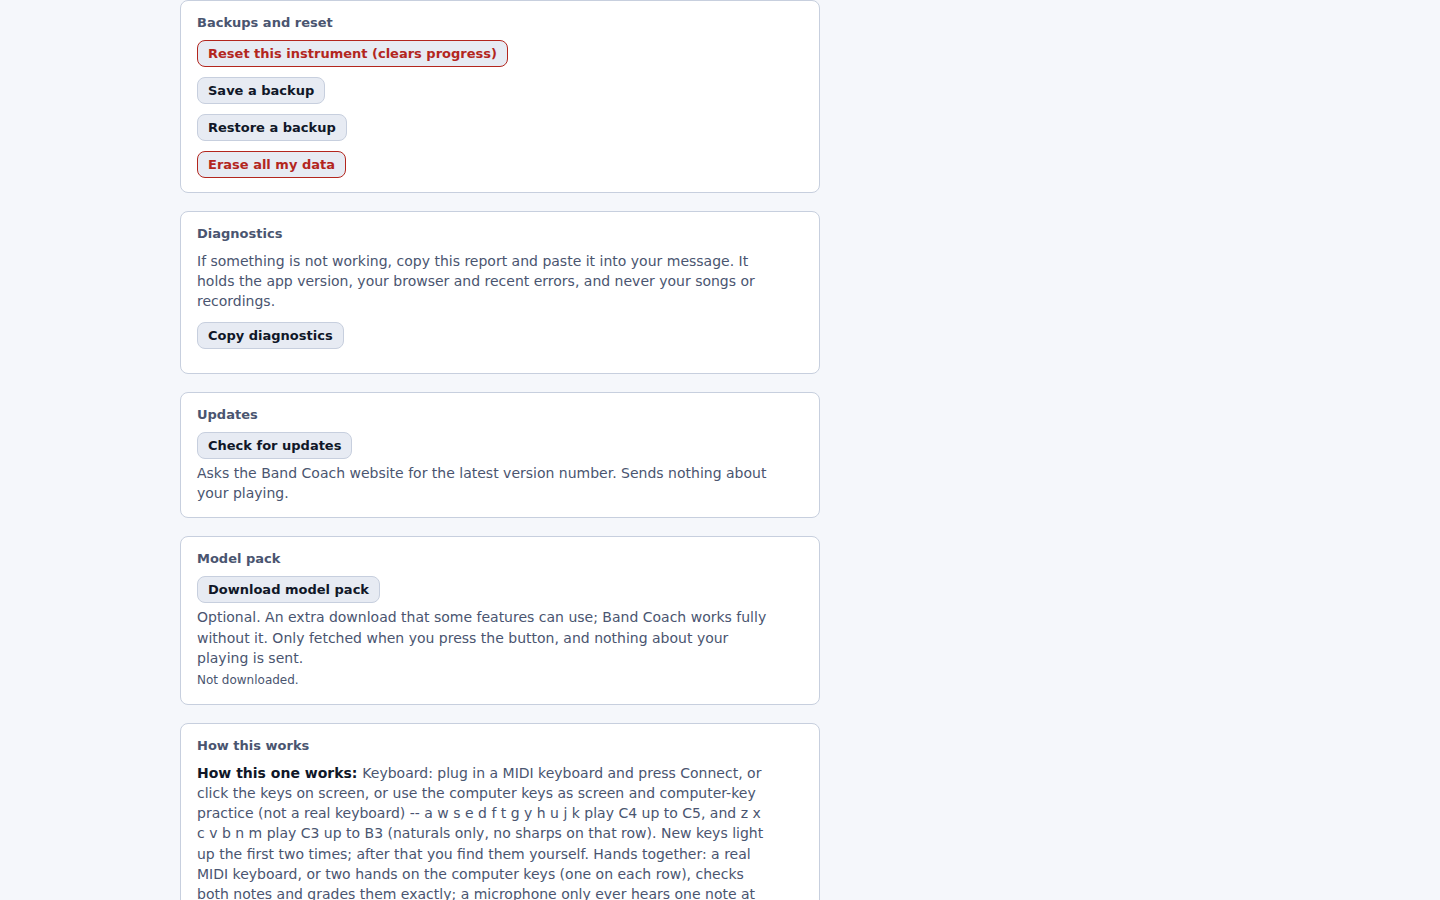
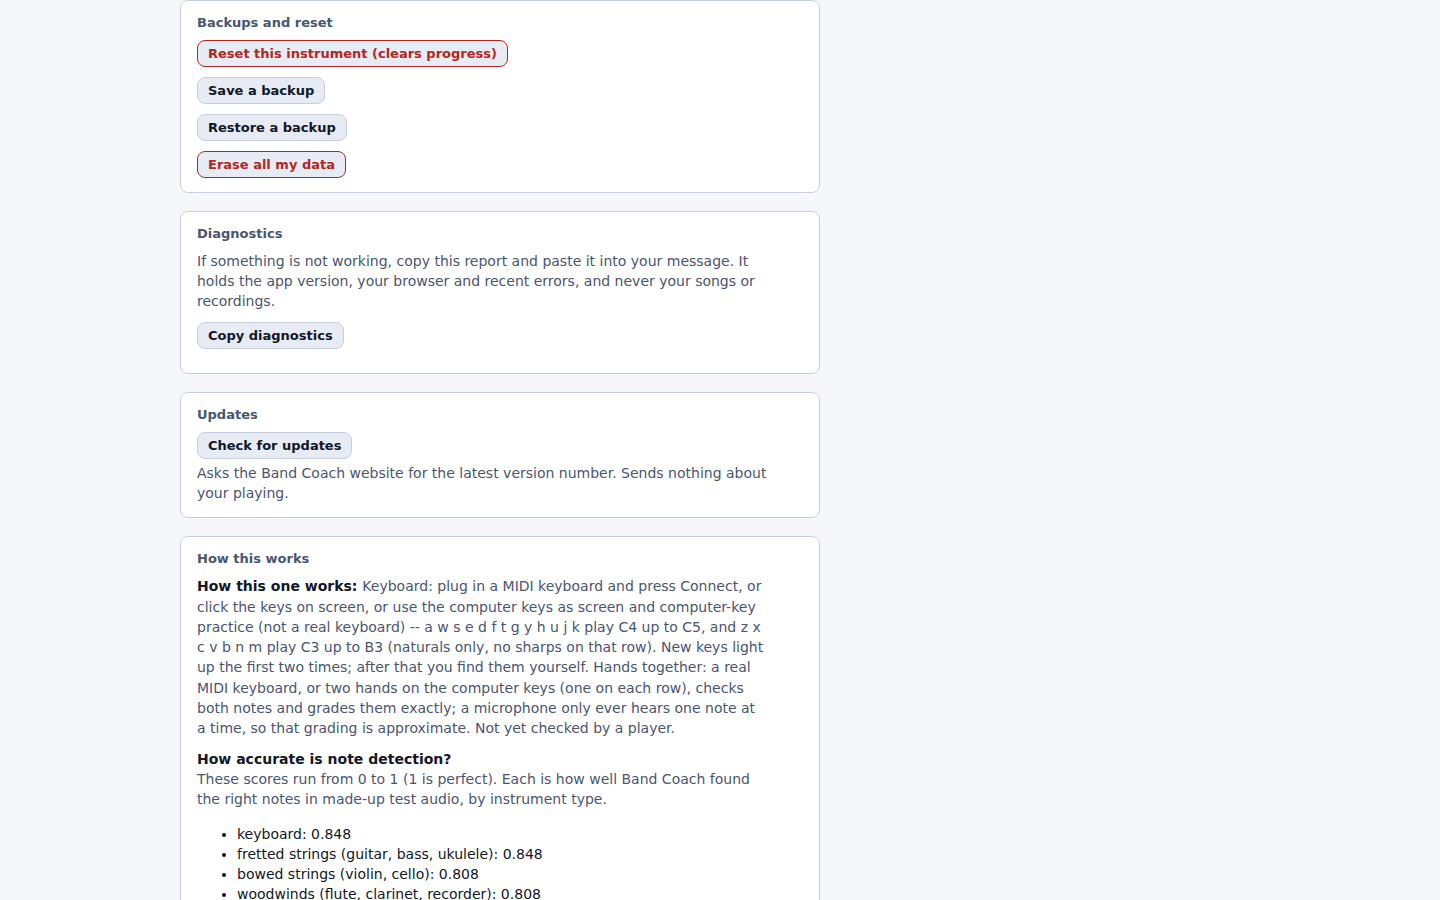
fix(band-coach): v1.12.2 screenshots, beat cue shot, drop model pack (#76)
Recapture every Band Coach image from the v1.12.2 tag and add a shot of the
beat cue. The capture script now starts the audio clock and answers the mic
prompt, which a scripted click cannot do.

v1.12.2 removed the model pack (band-coach#664), so the page and the privacy
section now describe one network request instead of two.

Changed region(s): [[0.125, 0.5911, 0.5312, 1.0]]

diff --git a/content/band-coach.md b/content/band-coach.md
@@ -16,17 +16,21 @@ Pick an instrument and press Start. Band Coach gives you notes or short phrases 
 
 Songs are practiced the same way. Open a tune and it is split into graded steps on the instrument you are playing, in Learn, Rehearse or Check mode. A My speed slider slows the song down, and Hear your try plays back what you just played. Progress shows minutes, a practice calendar, a daily goal and a per-instrument breakdown. It counts how many of the last 7 and 28 days you practiced rather than keeping a streak.
 
+Timed exercises show when to play: a beat number counts up through the count-in and the bar, and a line crosses each note on time. On the drum kit, an outline also closes in on the next drum.
+
+<img src="/img/band-coach/trainer-beat-cue.png" alt="Drum kit trainer in the count-in: a big beat number 4, a line on the staff and an outline closing in on the kick" width="1440" height="900" loading="lazy">
+
 ## Get it running
 
 1. Download `band-coach.html` from the link above or the Get panel at the top of this page.
 2. Open the file in Chrome or Edge. The app's own MIDI message names those two browsers; without Web MIDI it still accepts screen keys and computer keys.
 3. Allow the microphone, or connect a MIDI keyboard. Keyboard uses MIDI, on-screen keys or computer keys; Drum kit uses an electronic kit over MIDI, computer keys, clicks on the drawn kit or the microphone; every other instrument listens through the microphone.
 
-Progress is saved in the browser's local storage, so a different browser or profile starts empty. Use "Save a backup" under Settings → Backups and reset to download `band-coach-progress.json`, and "Restore a backup" to load it again; it shows the backup's date before it replaces anything. "Erase all my data" in the same group removes everything Band Coach keeps in the browser. The release I checked (v1.11.0) makes two network requests, both only when you press their button in Settings, and neither sends anything about your playing: "Check for updates" asks the Band Coach website for the latest version number, and "Download model pack" fetches an optional extra download from the same site.
+Progress is saved in the browser's local storage, so a different browser or profile starts empty. Use "Save a backup" under Settings → Backups and reset to download `band-coach-progress.json`, and "Restore a backup" to load it again; it shows the backup's date before it replaces anything. "Erase all my data" in the same group removes everything Band Coach keeps in the browser. The release I checked (v1.12.2) makes one network request, only when you press "Check for updates" in Settings: it asks the Band Coach website for the latest version number and sends nothing about your playing.
 
 ## Instruments
 
-Band Coach v1.11.0 has 27 instruments, each with its own graded levels:
+Band Coach v1.12.2 has 27 instruments, each with its own graded levels:
 
 - **Keys and voice:** Keyboard, Voice.
 - **Fretted:** Guitar, Bass, 5-string bass, Ukulele, Baritone ukulele, Low-G ukulele, Mandolin, 5-string banjo.
@@ -34,7 +38,7 @@ Band Coach v1.11.0 has 27 instruments, each with its own graded levels:
 - **Wind and brass:** Trumpet (B flat), Trombone, French horn (F), Clarinet (B flat), Alto sax (E flat), Tenor sax (B flat), Flute, Oboe, Descant recorder, Tin whistle (D).
 - **Other:** Harmonica, Mallet percussion (bells), Drum kit.
 
-Drum kit has its own trainer. It takes an electronic kit over MIDI, computer keys, a click on the drawn kit, or the microphone. The microphone can only tell kick, snare and hi-hat apart; a MIDI kit names every piece. Eight practice grooves, from a rock beat to sixteenths on the hi-hat, sit alongside the levels.
+Drum kit has its own trainer. It takes an electronic kit over MIDI, computer keys, a click on the drawn kit, or the microphone. The microphone can only tell kick, snare and hi-hat apart; a MIDI kit names every piece. Eight practice grooves, from a rock beat to sixteenths on the hi-hat, sit alongside the levels. A failed bar in the trainer gets up to 3 tries, and a song's drum part has a step that grades the right drums in order with no clock. Setting up a kit under Set up input walks through the pads one at a time, can go back and relearn a pad, and says why a kit did not connect.
 
 <img src="/img/band-coach/instrument-picker.png" alt="Band Coach's instrument picker: a button per instrument family, then a Tools row of drills, tuner, theory and a metronome" width="1440" height="900" loading="lazy">
 
@@ -56,7 +60,7 @@ Band Coach hears pitch and timing. It cannot see posture, breath, bowing or hand
 
 - **Songs:** practice a built-in starter tune, whose Play it on list shows how it fits each instrument, or use Add a song to record a tune or open a score or recording. An open song also has Edit notes and Play along.
 - **Progress:** practice calendar, daily goal and results by instrument, once you have logged a session.
-- **Settings:** reset an instrument, backups, erase all data, diagnostics, updates and the optional model pack.
+- **Settings:** reset an instrument, backups, erase all data, diagnostics and a check for updates.
 
 **Tools** (a row in the instrument picker): Interval drill, Rhythm reading, Tuner, Capture a melody, Ear training, How to play it, Music theory and Metronome.
 

diff --git a/content/privacy.md b/content/privacy.md
@@ -310,8 +310,8 @@ actions sends anything to a server or a provider.
 ## Band Coach
 
 [Band Coach](/band-coach/) is a single HTML file you download and open in a
-browser. This section is written from its public source (package version 1.11.0,
-repository commit `2736d8f`).
+browser. This section is written from its public source (package version 1.12.2,
+repository commit `740fa3e`).
 
 **Microphone.** Instruments that listen ask the browser for the microphone
 when you press Start or Connect (`getUserMedia`, with echo cancellation, noise
@@ -330,21 +330,19 @@ the file was opened from:
   the saved profile, only if it could not be read);
 - session storage: `bandcoach.v1.errors`, the last 20 caught errors (message,
   place, time), kept until the tab closes;
-- IndexedDB: `bandcoach-songs` (your saved songs) and `band-coach-model-packs`
-  (a downloaded model pack);
+- IndexedDB: `bandcoach-songs` (your saved songs), and `band-coach-model-packs`
+  only if an older copy of the app created it, for a feature since removed;
 - on the hosted copy only, a service worker and a browser cache named
   `band-coach-pages-v` plus the version. The service worker is registered only
   on `https:`, `localhost` or `127.0.0.1`, so a downloaded copy opened as a file
   does not have one.
 
-**What leaves your device.** The source makes two network requests, and each runs
-only when you press its button under Settings. **Check for updates** fetches
-`https://back-road-creative.github.io/band-coach/version.json`. **Download model
-pack** fetches a manifest from `https://back-road-creative.github.io/band-coach/model-packs/core/manifest.json`
-and then the pack file it names, from the same folder. Neither request carries
-any of your progress, songs or audio; as with any web request, the server can see
-your IP address and browser. That address is the project's GitHub Pages site, not
-this site, so this site receives nothing from either. The app has no other
+**What leaves your device.** The source makes one network request, and it runs
+only when you press **Check for updates** under Settings. It fetches
+`https://back-road-creative.github.io/band-coach/version.json`. The request does
+not carry any of your progress, songs or audio; as with any web request, the
+server can see your IP address and browser. That address is the project's GitHub
+Pages site, not this site, so this site receives nothing from it. The app has no other
 `fetch`, `XMLHttpRequest`, `WebSocket`, `sendBeacon` or analytics code.
 **Copy diagnostics** only puts text on your clipboard (app version, browser
 string, which features exist, and recent errors with web addresses and file
@@ -353,7 +351,7 @@ choice. **Save a backup** downloads `band-coach-progress.json` to your computer.
 
 **Deleting it.** Settings has **Erase all my data**. After you confirm, it removes
 every local-storage and session-storage key beginning `bandcoach`, deletes the
-two IndexedDB databases and the `band-coach-pages-v` caches, then reloads. A
+IndexedDB databases above and the `band-coach-pages-v` caches, then reloads. A
 backup file you saved is a file on your computer and is yours to delete. Clearing
 your browser's site data for the page also removes the browser-held items above.
 
